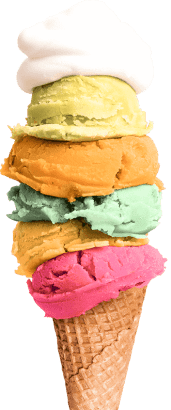
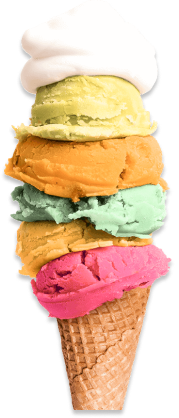
doing hero

Changed region(s): [[0.0, 0.1756, 0.9942, 1.0], [0.0877, 0.0878, 0.1754, 0.2049]]

diff --git a/src/partials/hero.html b/src/partials/hero.html
@@ -1,26 +1,51 @@
-<section class="hero__section"  id="hero">
-  <h1 class="section__title hero__title ">
-    ICE CREAM <br />
-    MADE WITH <br />
-    <span>PASSION</span>
-  </h1>
-
-  <ul class="hero__btns btns">
-    <li class="btn hero__btn "><a href="#products">Products</a></li>
-    <li. class="hero__btn btn"><a href="#howItsMade">How it’s made?</a></li>
+<section class="hero__section section"  id="hero">
+  <div class="hero__title-wrapper">
+    <h1 class="section__title hero__title ">
+      ICE CREAM <br />
+      MADE WITH <br />
+      <span>PASSION</span>
+    </h1>
+  
+    <ul class="hero__btns btns">
+      <li class="btn hero__btn "><a href="#products">Products</a></li>
+      <li. class="btn hero__btn"><a href="#howItsMade">How it’s made?</a></li>
+    </ul>
+  </div>
+  
+  <ul class="hero__stats">
+    <li class="hero__stats-item section__title">16 <span>cafes</span></li>
+    <li class="hero__stats-item section__title">23 <span>food trucks</span></li>
+    <li class="hero__stats-item">
+      <picture>
+      <source 
+      srcset="./images/hero-girl-tab.png 1x, ./images/hero-girl-tab@2x.png  2x"
+      media="(min-width: 768px)"
+      type="image/png"
+      />
+      <img src="./images/hero-girl-tab.png" alt="girl">
+    </picture>
+  </li>
+    <!-- <picture>
+      <source 
+      srcset="./images/hero-girl-tab.png 1x, ./images/hero-girl-tab@2x.png  2x"
+      media="(min-width: 768px)"
+      type="image/png"
+      />
+      <img src="./images/hero-girl-tab.png" alt="girl">
+    </picture> -->
+    <!-- <li class="hero__stats-item"><img src="./images/hero-girl-tab.png" alt="girl"></li> -->
   </ul>
 
-  <!-- <picture>
-    <source srcset="..">
-  </picture> -->
-  <!-- <img class="hero__elipse" src="images/hero-elipse-big.png" alt="ice cream" /> -->
-  <img
+  <!-- <ul class="hero__images">
+    <li class="hero__img"><img src="./images/hero-16cal.png" alt="calories"></li>
+    <li class="hero__img"><img src="./images/hero-23.png" alt="tracks"></li>
+    <li class="hero__img"><img src="./images/hero-girl.png" alt="girl"></li>
+  </ul> -->
+  <picture><img
     class="hero__icecream"
     src="images/hero-icecream-mob.png"
     alt="ice cream"
-  />
-  <!-- <ul class="hero__btns btns">
-    <li class="btn hero__btn "><a href="#products">Products</a></li>
-    <li. class="hero__btn btn"><a href="#howItsMade">How it’s made?</a></li>
-  </ul> -->
+  /></picture>
+  
+  
 </section>

diff --git a/src/sass/tablet/_hero.scss b/src/sass/tablet/_hero.scss
@@ -3,6 +3,10 @@
     padding-top: 102px;
     min-height: 400px;
     background-size: 324px;
+
+    display: flex;
+    flex-direction: row;
+    justify-content: space-between;
   }
   @keyframes bg__img {
     0% {
@@ -20,8 +24,6 @@
     }
   }
 
-  // .hero__icecream {
-  // }
   @keyframes icecream {
     0% {
       width: 11px;
@@ -35,6 +37,46 @@
       width: 143px;
       // left: 110px;
       right: 247px;
+    }
+  }
+
+  .hero__stats {
+    display: flex;
+    flex-direction: column;
+    align-items: flex-end;
+    position: absolute;
+    bottom: 0;
+    right: 34px;
+  }
+
+  .hero__stats-item {
+    font-size: 28px;
+    display: flex;
+    flex-direction: column;
+    align-items: flex-end;
+    text-shadow: 3px 3px 1px #0000003d;
+    & span {
+      font-family: DM Sans;
+      font-size: 8px;
+      font-weight: 400;
+      line-height: 10px;
+      letter-spacing: 0em;
+      text-align: right;
+      color: var(--font-color-one);
+    }
+    &:nth-child(1) {
+      margin-bottom: 13px;
+    }
+    &:nth-child(2) {
+      margin-bottom: 72px;
+    }
+    &:nth-child(3) {
+      width: 168px;
+      // overflow: hidden;
+    }
+    & img {
+      width: 168px;
+      margin-bottom: -8px;
     }
   }
 }

diff --git a/src/sass/_hero.scss b/src/sass/_hero.scss
@@ -5,6 +5,7 @@
   background-image: url(../images/hero-elipse-big.png);
   background-repeat: no-repeat;
   background-size: 346px;
+  overflow: hidden;
 
   position: relative;
   align-items: flex-start;
@@ -30,7 +31,7 @@
   text-shadow: 3px 3px 1px #0000003d;
   margin-bottom: 19px;
 
-  z-index: 100;
+  // z-index: 100;
 
   animation-name: hero__title;
   animation-duration: var(--animationDuration);
@@ -42,6 +43,10 @@
     font-size: 48px;
     color: var(--font-color-two);
     z-index: 10;
+  }
+
+  &-wrapper {
+    z-index: 100;
   }
 }
 
@@ -59,8 +64,9 @@
 }
 
 .hero__icecream {
-  position: absolute;
-  bottom: 0;
+  // position: absolute;
+  // bottom: 0;
+  margin-bottom: -7px;
   opacity: 0;
   animation-name: icecream;
   animation-duration: var(--animationDuration);
@@ -90,13 +96,14 @@
   animation-fill-mode: forwards;
   animation-name: hero__btns;
   z-index: 100;
-}
-.hero__btn:nth-child(1) {
-  animation-delay: 3.5s;
-}
 
-.hero__btn:nth-child(2) {
-  animation-delay: 4s;
+  &:nth-child(1) {
+    animation-delay: 3.5s;
+  }
+
+  &:nth-child(2) {
+    animation-delay: 4s;
+  }
 }
 
 @keyframes hero__btns {
@@ -112,4 +119,8 @@
     opacity: 1;
     scale: 1;
   }
+}
+
+.hero__stats {
+  display: none;
 }

diff --git a/src/index.html b/src/index.html
@@ -22,11 +22,11 @@
     <include src="./partials/header.html"></include>
     <main>
       <include src="./partials/hero.html"></include>
-      <include src="./partials/products.html"></include>
+      <!-- <include src="./partials/products.html"></include>
       <include src="./partials/howItsMade.html"></include>
       <include src="./partials/gallery.html"></include>
       <include src="./partials/reviews.html"></include>
-      <include src="./partials/locations.html"></include>
+      <include src="./partials/locations.html"></include> -->
     </main>
     <include src="./partials/footer.html"></include>
 

diff --git a/src/sass/desktop/_common.scss b/src/sass/desktop/_common.scss
@@ -1,4 +1,4 @@
-@media screen and (min-width: 768px) {
+@media screen and (min-width: 1200px) {
   section {
     padding-left: var(--secton_desktop_padding);
     padding-right: var(--secton_desktop_padding);

diff --git a/src/sass/index.scss b/src/sass/index.scss
@@ -1,6 +1,6 @@
 @import './common';
 @import './tablet/common';
-@import './desktop/common';
+// @import './desktop/common';
 
 @import './variables';
 
